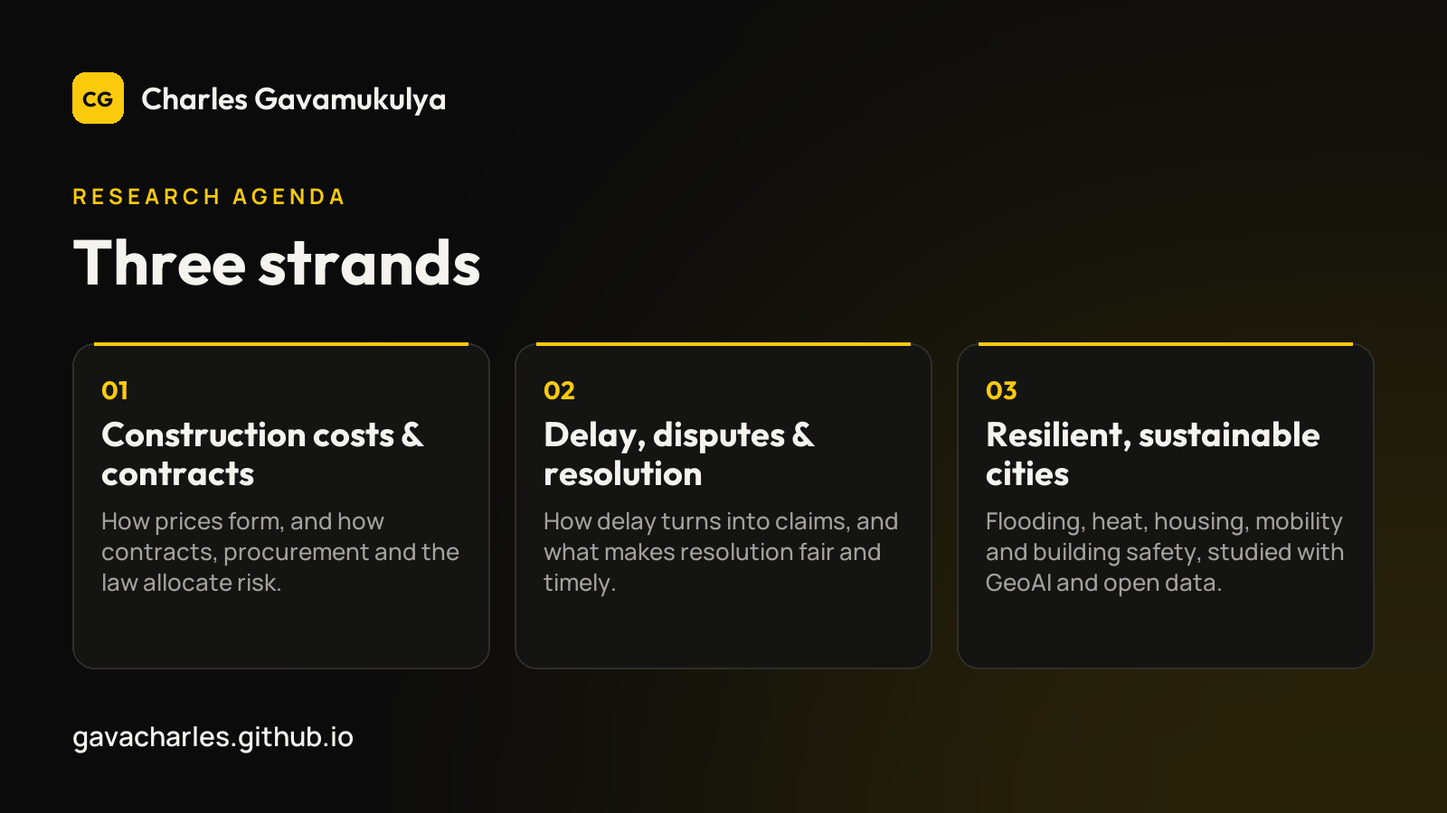
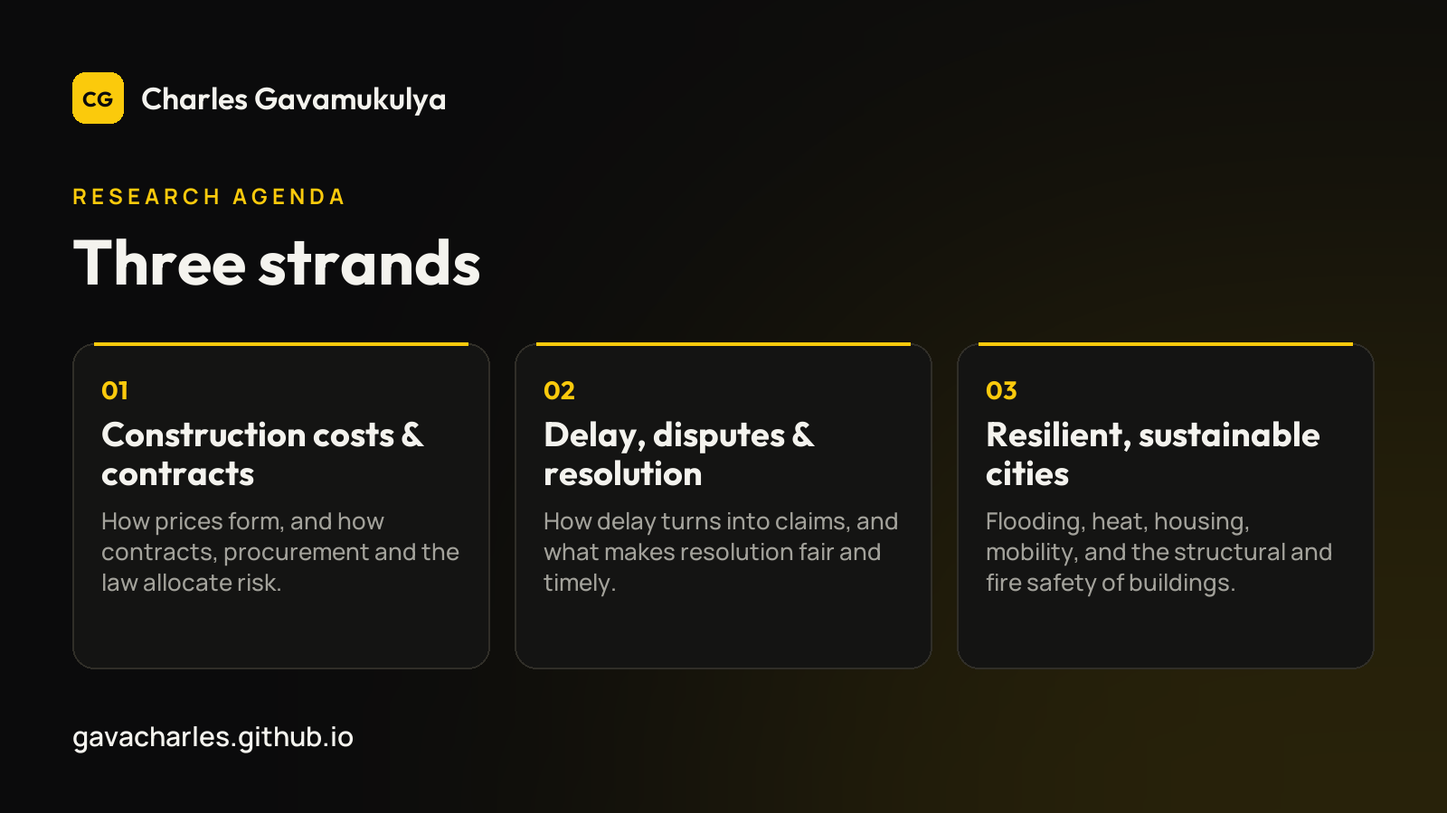
Update site 2026-11-19 22:58

Changed region(s): [[0.6875, 0.6222, 0.9375, 0.7467]]

diff --git a/research/index.html b/research/index.html
@@ -34,7 +34,7 @@
 <nav class="crumbs"><a href="/">Home</a> / Research</nav>
 <section class="page-head"><span class="eyebrow">Research</span><h1>Research <em>agenda</em></h1>
 <p class="lead">15 research interests in three strands, each linked to papers and open projects.</p></section>
-<section class="block" id="construction-costs-contracts"><span class="eyebrow">01</span><h2>Construction costs &amp; <em>contracts</em></h2><p class="lead">What drives construction prices, how contracts and procurement allocate that risk, and what the law asks of each party.</p><div class="grid interests"><div class="card interest" id="construction-prices-cost-forecasting"><h3>Construction prices &amp; cost forecasting</h3><p>Rebuilding Uganda&#x27;s construction price index, forecasting material costs and tracing how oil, exchange-rate and fiscal shocks reach contract prices.</p><div class="chips"><a class="chip" href="/projects/cio-construction-costs/">CIO Construction Costs</a><a class="chip" href="/projects/uganda-cipi-unsupervised-taxonomy/">Uganda CIPI Unsupervised Taxonomy</a><a class="chip" href="/projects/paper1-macro-fiscal-drivers-uganda/">Paper1 Macro Fiscal Drivers Uganda</a><a class="chip" href="/projects/brent-crude-uganda-escalation/">Brent Crude Uganda Escalation</a><a class="chip" href="/projects/simi-paper/">SIMI Paper</a></div></div><div class="card interest" id="contracts-price-adjustment-risk-allocation"><h3>Contracts, price adjustment &amp; risk allocation</h3><p>Testing FIDIC price-adjustment formulas, variations, and making contract risk allocation measurable at tender.</p><div class="chips"><a class="chip pub" href="/#pub-variations">Paper: Variations in construction contracts</a><a class="chip pub" href="/#pub-quality-sogssa">Paper: Quality management under the 2018 Act</a><a class="chip" href="/projects/fidic-determinable-at-tender/">FIDIC Determinable At Tender</a><a class="chip" href="/projects/dam-adaptive-governance-paper/">DAM Adaptive Governance Paper</a><a class="chip" href="/projects/fidic-clause-reform-phd/">FIDIC Clause Reform PhD</a></div></div><div class="card interest" id="construction-law-liability"><h3>Construction law &amp; liability</h3><p>Contractors&#x27; duties and liability in negligence across common-law and civil-law systems, and the effect of Uganda&#x27;s 2018 Sale of Goods and Supply of Services Act on quality obligations.</p><div class="chips"><a class="chip pub" href="/#pub-tortious-liability">Paper: Contractors&#x27; liability in negligence</a><a class="chip pub" href="/#pub-quality-sogssa">Paper: Quality management under the 2018 Act</a></div></div><div class="card interest" id="public-procurement-accountability"><h3>Public procurement &amp; accountability</h3><p>Explainable fraud-risk analytics for public works and text mining of Auditor General reports.</p><div class="chips"><a class="chip" href="/projects/procurement-risk-uganda/">Procurement Risk Uganda</a><a class="chip" href="/projects/oag-reports/">OAG Reports</a></div></div></div></section><section class="block" id="delay-disputes-resolution"><span class="eyebrow">02</span><h2>Delay, disputes &amp; <em>resolution</em></h2><p class="lead">Why projects slip, how delay turns into claims, and how adjudication and arbitration resolve them, including when the weather is to blame.</p><div class="grid interests"><div class="card interest" id="delay-claims-dispute-resolution"><h3>Delay, claims &amp; dispute resolution</h3><p>Concurrent delay, liability apportionment and the causes of construction disputes, from site to arbitration.</p><div class="chips"><a class="chip pub" href="/#pub-concurrent-delay-barnes">Paper: Concurrent delay: the Thomas Barnes approach</a><a class="chip" href="/projects/concurrent-delay-map/">Concurrent Delay Map</a><a class="chip" href="/projects/concurrent-delay-ml/">Concurrent Delay ML</a><a class="chip" href="/projects/text-mining-analysis-for-oag-reports-from-2017-to-2025/">Text Mining Analysis For OAG Reports From 2017 To 2025</a></div></div><div class="card interest" id="adjudication-arbitration-adr"><h3>Adjudication, arbitration &amp; ADR</h3><p>How construction adjudication works, how its decisions are enforced in Uganda, the UK and South Africa, and when courts can order parties into ADR.</p><div class="chips"><a class="chip pub" href="/#pub-adjudication-uganda-reform">Paper: Construction adjudication in Uganda</a><a class="chip pub" href="/#pub-fidic-1999-adjudication">Paper: Adjudication in the 1999 FIDIC forms</a><a class="chip pub" href="/#pub-adjudication-enforcement">Paper: Enforcing adjudication decisions: UK, SA, Uganda</a><a class="chip pub" href="/#pub-cader-rulings">Paper: CADER adjudication rulings</a><a class="chip pub" href="/#pub-churchill-adr">Paper: Churchill v Merthyr Tydfil and court-ordered ADR</a></div></div><div class="card interest" id="climate-risk-in-construction"><h3>Climate risk in construction</h3><p>When weather becomes &#x27;exceptional&#x27;: extension-of-time entitlement, seasonal delay and corrosion risk to concrete buildings.</p><div class="chips"><a class="chip" href="/projects/uganda-climate-disputes/">Uganda Climate Disputes</a><a class="chip" href="/projects/uganda-concrete-climate/">Uganda Concrete Climate</a></div></div></div></section><section class="block" id="resilient-sustainable-cities"><span class="eyebrow">03</span><h2>Resilient, sustainable <em>cities</em></h2><p class="lead">How flood, heat, housing, mobility and building safety shape African cities, mapped with GeoAI and open data.</p><div class="grid interests"><div class="card interest" id="urban-flooding-drainage"><h3>Urban flooding &amp; drainage</h3><p>Storm replays, drainage-channel priorities and flood monitoring for Kampala and Kigali.</p><div class="chips"><a class="chip" href="/projects/kampala-flood-replay/">Kampala Flood Replay</a><a class="chip" href="/projects/kampala-drain-watch/">Kampala Drain Watch</a><a class="chip" href="/projects/kigali-drain-watch/">Kigali Drain Watch</a><a class="chip" href="/projects/where-is-the-el-nino-rain/">Where Is The El Nino Rain</a></div></div><div class="card interest" id="urban-heat-green-infrastructure"><h3>Urban heat &amp; green infrastructure</h3><p>Surface heat, informal settlements, tree priorities, rooftop solar and a 3D sun, shade and breeze model.</p><div class="chips"><a class="chip" href="/projects/kampala-heat-atlas/">Kampala Heat Atlas</a></div></div><div class="card interest" id="housing-affordability"><h3>Housing affordability</h3><p>Who can afford the housing on offer in Greater Kampala, using spatial machine learning.</p><div class="chips"><a class="chip" href="/projects/gkma-housing-affordability/">GKMA Housing Affordability</a><a class="chip" href="/projects/kampala-affordability-explorer/">Kampala Affordability Explorer</a></div></div><div class="card interest" id="mobility-access-trade-corridors"><h3>Mobility, access &amp; trade corridors</h3><p>Last-mile connectivity, electric buses and bodas, and what slows Uganda&#x27;s trade corridors.</p><div class="chips"><a class="chip" href="/projects/kampala-last-mile-map/">Kampala Last Mile Map</a><a class="chip" href="/projects/kampala-emobility-atlas/">Kampala Emobility Atlas</a><a class="chip" href="/projects/kigali-last-mile-map/">Kigali Last Mile Map</a><a class="chip" href="/projects/johannesburg-last-mile-map/">Johannesburg Last Mile Map</a><a class="chip" href="/projects/uganda-trade-corridors/">Uganda Trade Corridors</a></div></div><div class="card interest" id="structural-seismic-fire-safety"><h3>Structural, seismic &amp; fire safety</h3><p>Seismic vulnerability of existing buildings, forensic analysis of building collapse, and fire-safety mapping of Kampala&#x27;s central business district.</p><div class="chips"><a class="chip pub" href="/#pub-seismic-senate">Paper: Seismic vulnerability, Makerere Senate Building</a><a class="chip" href="/projects/eastleigh-collapse-analysis/">Eastleigh Collapse Analysis</a><a class="chip" href="/projects/kampala-cbd-fire-map/">Kampala CBD Fire Map</a></div></div><div class="card interest" id="seasons-rainfall-access-to-services"><h3>Seasons, rainfall &amp; access to services</h3><p>Four decades of Uganda rainfall, growing-season reliability, and how the rains lengthen trips to clinics, schools and markets.</p><div class="chips"><a class="chip" href="/projects/uganda-rainfall-climate/">Uganda Rainfall Climate</a><a class="chip" href="/projects/uganda-rainy-season-access/">Uganda Rainy Season Access</a><a class="chip" href="/projects/uganda-rainy-season-access-study/">Uganda Rainy Season Access Study</a></div></div><div class="card interest" id="water-sustainability"><h3>Water &amp; sustainability</h3><p>Low-cost greywater treatment using activated carbon made from rice husks.</p><div class="chips"><a class="chip pub" href="/#pub-greywater-rice-husks">Paper: Rice-husk carbon for greywater treatment</a></div></div><div class="card interest" id="elections-political-geography"><h3>Elections &amp; political geography</h3><p>An independent ward-level forecast of South Africa&#x27;s 2026 local government elections, with an interactive map.</p><div class="chips"><a class="chip" href="/projects/lge2026-ward-forecast/">LGE2026 Ward Forecast</a></div></div></div></section>
+<section class="block" id="construction-costs-contracts"><span class="eyebrow">01</span><h2>Construction costs &amp; <em>contracts</em></h2><p class="lead">What drives construction prices, how contracts and procurement allocate that risk, and what the law asks of each party.</p><div class="grid interests"><div class="card interest" id="construction-prices-cost-forecasting"><h3>Construction prices &amp; cost forecasting</h3><p>Rebuilding Uganda&#x27;s construction price index, forecasting material costs and tracing how oil, exchange-rate and fiscal shocks reach contract prices.</p><div class="chips"><a class="chip" href="/projects/cio-construction-costs/">CIO Construction Costs</a><a class="chip" href="/projects/uganda-cipi-unsupervised-taxonomy/">Uganda CIPI Unsupervised Taxonomy</a><a class="chip" href="/projects/paper1-macro-fiscal-drivers-uganda/">Paper1 Macro Fiscal Drivers Uganda</a><a class="chip" href="/projects/brent-crude-uganda-escalation/">Brent Crude Uganda Escalation</a><a class="chip" href="/projects/simi-paper/">SIMI Paper</a></div></div><div class="card interest" id="contracts-price-adjustment-risk-allocation"><h3>Contracts, price adjustment &amp; risk allocation</h3><p>Testing FIDIC price-adjustment formulas, variations, and making contract risk allocation measurable at tender.</p><div class="chips"><a class="chip pub" href="/#pub-variations">Paper: Variations in construction contracts</a><a class="chip pub" href="/#pub-quality-sogssa">Paper: Quality management under the 2018 Act</a><a class="chip" href="/projects/fidic-determinable-at-tender/">FIDIC Determinable At Tender</a><a class="chip" href="/projects/dam-adaptive-governance-paper/">DAM Adaptive Governance Paper</a><a class="chip" href="/projects/fidic-clause-reform-phd/">FIDIC Clause Reform PhD</a></div></div><div class="card interest" id="construction-law-liability"><h3>Construction law &amp; liability</h3><p>Contractors&#x27; duties and liability in negligence across common-law and civil-law systems, and the effect of Uganda&#x27;s 2018 Sale of Goods and Supply of Services Act on quality obligations.</p><div class="chips"><a class="chip pub" href="/#pub-tortious-liability">Paper: Contractors&#x27; liability in negligence</a><a class="chip pub" href="/#pub-quality-sogssa">Paper: Quality management under the 2018 Act</a></div></div><div class="card interest" id="public-procurement-accountability"><h3>Public procurement &amp; accountability</h3><p>Explainable fraud-risk analytics for public works and text mining of Auditor General reports.</p><div class="chips"><a class="chip" href="/projects/procurement-risk-uganda/">Procurement Risk Uganda</a><a class="chip" href="/projects/oag-reports/">OAG Reports</a></div></div></div></section><section class="block" id="delay-disputes-resolution"><span class="eyebrow">02</span><h2>Delay, disputes &amp; <em>resolution</em></h2><p class="lead">Why projects slip, how delay turns into claims, and how adjudication and arbitration resolve them, including when the weather is to blame.</p><div class="grid interests"><div class="card interest" id="delay-claims-dispute-resolution"><h3>Delay, claims &amp; dispute resolution</h3><p>Concurrent delay, liability apportionment and the causes of construction disputes, from site to arbitration.</p><div class="chips"><a class="chip pub" href="/#pub-concurrent-delay-barnes">Paper: Concurrent delay: the Thomas Barnes approach</a><a class="chip" href="/projects/concurrent-delay-map/">Concurrent Delay Map</a><a class="chip" href="/projects/concurrent-delay-ml/">Concurrent Delay ML</a><a class="chip" href="/projects/text-mining-analysis-for-oag-reports-from-2017-to-2025/">Text Mining Analysis For OAG Reports From 2017 To 2025</a></div></div><div class="card interest" id="adjudication-arbitration-adr"><h3>Adjudication, arbitration &amp; ADR</h3><p>How construction adjudication works, how its decisions are enforced in Uganda, the UK and South Africa, and when courts can order parties into ADR.</p><div class="chips"><a class="chip pub" href="/#pub-adjudication-uganda-reform">Paper: Construction adjudication in Uganda</a><a class="chip pub" href="/#pub-fidic-1999-adjudication">Paper: Adjudication in the 1999 FIDIC forms</a><a class="chip pub" href="/#pub-adjudication-enforcement">Paper: Enforcing adjudication decisions: UK, SA, Uganda</a><a class="chip pub" href="/#pub-cader-rulings">Paper: CADER adjudication rulings</a><a class="chip pub" href="/#pub-churchill-adr">Paper: Churchill v Merthyr Tydfil and court-ordered ADR</a></div></div><div class="card interest" id="climate-risk-in-construction"><h3>Climate risk in construction</h3><p>When weather becomes &#x27;exceptional&#x27;: extension-of-time entitlement, seasonal delay and corrosion risk to concrete buildings.</p><div class="chips"><a class="chip" href="/projects/uganda-climate-disputes/">Uganda Climate Disputes</a><a class="chip" href="/projects/uganda-concrete-climate/">Uganda Concrete Climate</a></div></div></div></section><section class="block" id="resilient-sustainable-cities"><span class="eyebrow">03</span><h2>Resilient, sustainable <em>cities</em></h2><p class="lead">How flooding, heat, housing, mobility and the structural and fire safety of buildings shape African cities, studied with GeoAI, open data and structural engineering.</p><div class="grid interests"><div class="card interest" id="urban-flooding-drainage"><h3>Urban flooding &amp; drainage</h3><p>Storm replays, drainage-channel priorities and flood monitoring for Kampala and Kigali.</p><div class="chips"><a class="chip" href="/projects/kampala-flood-replay/">Kampala Flood Replay</a><a class="chip" href="/projects/kampala-drain-watch/">Kampala Drain Watch</a><a class="chip" href="/projects/kigali-drain-watch/">Kigali Drain Watch</a><a class="chip" href="/projects/where-is-the-el-nino-rain/">Where Is The El Nino Rain</a></div></div><div class="card interest" id="urban-heat-green-infrastructure"><h3>Urban heat &amp; green infrastructure</h3><p>Surface heat, informal settlements, tree priorities, rooftop solar and a 3D sun, shade and breeze model.</p><div class="chips"><a class="chip" href="/projects/kampala-heat-atlas/">Kampala Heat Atlas</a></div></div><div class="card interest" id="housing-affordability"><h3>Housing affordability</h3><p>Who can afford the housing on offer in Greater Kampala, using spatial machine learning.</p><div class="chips"><a class="chip" href="/projects/gkma-housing-affordability/">GKMA Housing Affordability</a><a class="chip" href="/projects/kampala-affordability-explorer/">Kampala Affordability Explorer</a></div></div><div class="card interest" id="mobility-access-trade-corridors"><h3>Mobility, access &amp; trade corridors</h3><p>Last-mile connectivity, electric buses and bodas, and what slows Uganda&#x27;s trade corridors.</p><div class="chips"><a class="chip" href="/projects/kampala-last-mile-map/">Kampala Last Mile Map</a><a class="chip" href="/projects/kampala-emobility-atlas/">Kampala Emobility Atlas</a><a class="chip" href="/projects/kigali-last-mile-map/">Kigali Last Mile Map</a><a class="chip" href="/projects/johannesburg-last-mile-map/">Johannesburg Last Mile Map</a><a class="chip" href="/projects/uganda-trade-corridors/">Uganda Trade Corridors</a></div></div><div class="card interest" id="structural-seismic-fire-safety"><h3>Structural, seismic &amp; fire safety</h3><p>Structural engineering applied to the buildings cities already have: the seismic vulnerability of existing structures, fire safety in dense city centres such as Kampala&#x27;s, and forensic analysis of building collapse.</p><div class="chips"><a class="chip pub" href="/#pub-seismic-senate">Paper: Seismic vulnerability, Makerere Senate Building</a><a class="chip" href="/projects/eastleigh-collapse-analysis/">Eastleigh Collapse Analysis</a><a class="chip" href="/projects/kampala-cbd-fire-map/">Kampala CBD Fire Map</a></div></div><div class="card interest" id="seasons-rainfall-access-to-services"><h3>Seasons, rainfall &amp; access to services</h3><p>Four decades of Uganda rainfall, growing-season reliability, and how the rains lengthen trips to clinics, schools and markets.</p><div class="chips"><a class="chip" href="/projects/uganda-rainfall-climate/">Uganda Rainfall Climate</a><a class="chip" href="/projects/uganda-rainy-season-access/">Uganda Rainy Season Access</a><a class="chip" href="/projects/uganda-rainy-season-access-study/">Uganda Rainy Season Access Study</a></div></div><div class="card interest" id="water-sustainability"><h3>Water &amp; sustainability</h3><p>Low-cost greywater treatment using activated carbon made from rice husks.</p><div class="chips"><a class="chip pub" href="/#pub-greywater-rice-husks">Paper: Rice-husk carbon for greywater treatment</a></div></div><div class="card interest" id="elections-political-geography"><h3>Elections &amp; political geography</h3><p>An independent ward-level forecast of South Africa&#x27;s 2026 local government elections, with an interactive map.</p><div class="chips"><a class="chip" href="/projects/lge2026-ward-forecast/">LGE2026 Ward Forecast</a></div></div></div></section>
 <p class="methods"><span class="eyebrow">Methods</span> Econometrics (VAR, ARDL, local projections) · machine learning and explainable AI · physics-informed neural networks · GIS and remote sensing · text mining · interactive web maps</p>
 </main>
 <footer id="contact" class="foot"><div class="wrap foot-in">

diff --git a/index.html b/index.html
@@ -34,16 +34,16 @@
 
 <section class="hero has-photo" id="about"><div class="hero-text">
   <h1 class="rot-h1" aria-label="Turning construction and city risk into evidence you can act on."><span aria-hidden="true">Turning<br><span class="rotator" data-words="price shocks|delay claims|contract clauses|flood risk|dispute records|procurement red flags"><span class="rot-word">price shocks</span></span><br>into evidence you can act on.</span></h1>
-  <p class="lead">I&#x27;m Charles Gavamukulya, a PhD candidate in Construction Management at the University of Johannesburg, working where construction, law and the city meet. Years of contract administration and claims work on Ugandan roads, railways and drainage schemes left me with two questions: why do infrastructure projects run over budget, fall behind schedule and end in dispute? And how can African cities be built to stay resilient, sustainable and affordable as the climate changes?</p><p class="lead">My aim is to explain how the industry really behaves, not merely describe it, and to turn that understanding into tools that engineers, lawyers, financiers and city leaders can use. Drawing on mathematics, machine learning and GeoAI, I study how construction costs and risk are shared, how delay becomes dispute, how safe our buildings are, and how flooding, heat, housing and mobility are reshaping African cities.</p>
+  <p class="lead">I&#x27;m Charles Gavamukulya, a PhD candidate in Construction Management at the University of Johannesburg. Trained in both structural engineering and construction law, I work where construction, law and the city meet. Years of contract administration and claims work on Ugandan roads, railways and drainage schemes left me with two questions: why do infrastructure projects run over budget, fall behind schedule and end in dispute? And how can African cities be built to stay resilient, sustainable and affordable as the climate changes?</p><p class="lead">My aim is to explain how the industry really behaves, not merely describe it, and to turn that understanding into tools that engineers, lawyers, financiers and city leaders can use. Drawing on mathematics, machine learning and GeoAI, I study how construction costs and risk are shared, how delay becomes dispute, how buildings stand up to earthquakes, fire and structural failure, and how flooding, heat, housing and mobility are reshaping African cities.</p>
   <div class="cta"><a class="btn gold" href="/cv/">View CV</a><a class="btn ghost" href="mailto:charles.gavamukulya@hovequill.com">Email</a><a class="btn ghost" href="https://scholar.google.com/citations?user=7_nGb4QAAAAJ&hl=en" target="_blank" rel="noopener">Google Scholar</a></div>
   <p class="minor-links"><a href="https://github.com/gavacharles" target="_blank" rel="me noopener">GitHub ↗</a> · <a href="https://www.linkedin.com/in/charles-gavamukulya-fciarb-203465132" target="_blank" rel="me noopener">LinkedIn ↗</a> · <a href="https://orcid.org/0009-0003-6337-6646" target="_blank" rel="me noopener">ORCID ↗</a> · <a href="#collaborate">Work with me →</a></p>
   
   <dl class="stats"><div><dt>Publications</dt><dd>11</dd></div><div><dt>Open projects</dt><dd>36</dd></div><div><dt>Research interests</dt><dd>15</dd></div></dl>
 </div><figure class="portrait-wrap"><div class="portrait"><img src="/assets/photo.jpg" alt="Portrait of Charles Gavamukulya" width="520" height="780"></div><figcaption>Charles Gavamukulya<span>PhD candidate in Construction Management · University of Johannesburg</span></figcaption></figure>
 </section>
-<div class="ticker" aria-hidden="true"><div class="ticker-track"><span>FIDIC &amp; contract risk</span><span>Construction price indices</span><span>Adjudication &amp; arbitration</span><span>Concurrent delay</span><span>Claims &amp; quantum</span><span>Flood &amp; drainage</span><span>Urban heat</span><span>Housing affordability</span><span>Mobility &amp; access</span><span>Procurement integrity</span><span>Seismic &amp; fire safety</span><span>Machine learning</span><span>GIS &amp; remote sensing</span><span>FIDIC &amp; contract risk</span><span>Construction price indices</span><span>Adjudication &amp; arbitration</span><span>Concurrent delay</span><span>Claims &amp; quantum</span><span>Flood &amp; drainage</span><span>Urban heat</span><span>Housing affordability</span><span>Mobility &amp; access</span><span>Procurement integrity</span><span>Seismic &amp; fire safety</span><span>Machine learning</span><span>GIS &amp; remote sensing</span></div></div>
+<div class="ticker" aria-hidden="true"><div class="ticker-track"><span>FIDIC &amp; contract risk</span><span>Construction price indices</span><span>Adjudication &amp; arbitration</span><span>Concurrent delay</span><span>Claims &amp; quantum</span><span>Flood &amp; drainage</span><span>Urban heat</span><span>Housing affordability</span><span>Mobility &amp; access</span><span>Procurement integrity</span><span>Structural &amp; fire safety</span><span>Machine learning</span><span>GIS &amp; remote sensing</span><span>FIDIC &amp; contract risk</span><span>Construction price indices</span><span>Adjudication &amp; arbitration</span><span>Concurrent delay</span><span>Claims &amp; quantum</span><span>Flood &amp; drainage</span><span>Urban heat</span><span>Housing affordability</span><span>Mobility &amp; access</span><span>Procurement integrity</span><span>Structural &amp; fire safety</span><span>Machine learning</span><span>GIS &amp; remote sensing</span></div></div>
 <section class="block" id="research"><div class="head"><h2>Research <em>agenda</em></h2><a href="/research/">All 15 interests →</a></div>
-  <div class="grid agenda-grid"><div class="card agenda"><span class="num">01</span><h3>Construction costs &amp; contracts</h3><p>What drives construction prices, how contracts and procurement allocate that risk, and what the law asks of each party.</p><ul><li><a href="/research/#construction-prices-cost-forecasting">Construction prices &amp; cost forecasting</a></li><li><a href="/research/#contracts-price-adjustment-risk-allocation">Contracts, price adjustment &amp; risk allocation</a></li><li><a href="/research/#construction-law-liability">Construction law &amp; liability</a></li><li><a href="/research/#public-procurement-accountability">Public procurement &amp; accountability</a></li></ul><a class="more" href="/research/#construction-costs-contracts">Explore →</a></div><div class="card agenda"><span class="num">02</span><h3>Delay, disputes &amp; resolution</h3><p>Why projects slip, how delay turns into claims, and how adjudication and arbitration resolve them, including when the weather is to blame.</p><ul><li><a href="/research/#delay-claims-dispute-resolution">Delay, claims &amp; dispute resolution</a></li><li><a href="/research/#adjudication-arbitration-adr">Adjudication, arbitration &amp; ADR</a></li><li><a href="/research/#climate-risk-in-construction">Climate risk in construction</a></li></ul><a class="more" href="/research/#delay-disputes-resolution">Explore →</a></div><div class="card agenda"><span class="num">03</span><h3>Resilient, sustainable cities</h3><p>How flood, heat, housing, mobility and building safety shape African cities, mapped with GeoAI and open data.</p><ul><li><a href="/research/#urban-flooding-drainage">Urban flooding &amp; drainage</a></li><li><a href="/research/#urban-heat-green-infrastructure">Urban heat &amp; green infrastructure</a></li><li><a href="/research/#housing-affordability">Housing affordability</a></li><li><a href="/research/#mobility-access-trade-corridors">Mobility, access &amp; trade corridors</a></li><li><a href="/research/#structural-seismic-fire-safety">Structural, seismic &amp; fire safety</a></li><li><a href="/research/#seasons-rainfall-access-to-services">Seasons, rainfall &amp; access to services</a></li><li><a href="/research/#water-sustainability">Water &amp; sustainability</a></li><li><a href="/research/#elections-political-geography">Elections &amp; political geography</a></li></ul><a class="more" href="/research/#resilient-sustainable-cities">Explore →</a></div></div></section>
+  <div class="grid agenda-grid"><div class="card agenda"><span class="num">01</span><h3>Construction costs &amp; contracts</h3><p>What drives construction prices, how contracts and procurement allocate that risk, and what the law asks of each party.</p><ul><li><a href="/research/#construction-prices-cost-forecasting">Construction prices &amp; cost forecasting</a></li><li><a href="/research/#contracts-price-adjustment-risk-allocation">Contracts, price adjustment &amp; risk allocation</a></li><li><a href="/research/#construction-law-liability">Construction law &amp; liability</a></li><li><a href="/research/#public-procurement-accountability">Public procurement &amp; accountability</a></li></ul><a class="more" href="/research/#construction-costs-contracts">Explore →</a></div><div class="card agenda"><span class="num">02</span><h3>Delay, disputes &amp; resolution</h3><p>Why projects slip, how delay turns into claims, and how adjudication and arbitration resolve them, including when the weather is to blame.</p><ul><li><a href="/research/#delay-claims-dispute-resolution">Delay, claims &amp; dispute resolution</a></li><li><a href="/research/#adjudication-arbitration-adr">Adjudication, arbitration &amp; ADR</a></li><li><a href="/research/#climate-risk-in-construction">Climate risk in construction</a></li></ul><a class="more" href="/research/#delay-disputes-resolution">Explore →</a></div><div class="card agenda"><span class="num">03</span><h3>Resilient, sustainable cities</h3><p>How flooding, heat, housing, mobility and the structural and fire safety of buildings shape African cities, studied with GeoAI, open data and structural engineering.</p><ul><li><a href="/research/#urban-flooding-drainage">Urban flooding &amp; drainage</a></li><li><a href="/research/#urban-heat-green-infrastructure">Urban heat &amp; green infrastructure</a></li><li><a href="/research/#housing-affordability">Housing affordability</a></li><li><a href="/research/#mobility-access-trade-corridors">Mobility, access &amp; trade corridors</a></li><li><a href="/research/#structural-seismic-fire-safety">Structural, seismic &amp; fire safety</a></li><li><a href="/research/#seasons-rainfall-access-to-services">Seasons, rainfall &amp; access to services</a></li><li><a href="/research/#water-sustainability">Water &amp; sustainability</a></li><li><a href="/research/#elections-political-geography">Elections &amp; political geography</a></li></ul><a class="more" href="/research/#resilient-sustainable-cities">Explore →</a></div></div></section>
 <section class="block" id="approach"><div class="head"><h2>How I tackle <em>it</em></h2></div>
   <div class="steps"><div class="step"><span class="num">01</span><h3>Explain the phenomena</h3><p>Why do price shocks ripple through material costs? Why do some contract clauses breed disputes, and why do some delays become claims? I use econometrics (vector autoregressions, local projections and regime-switching models) and text mining of audit reports and case law to find the mechanisms behind what practitioners see on site.</p></div><div class="step"><span class="num">02</span><h3>Measure what matters</h3><p>Much of the industry&#x27;s evidence is locked in PDFs and spreadsheets. Rebuilding Uganda&#x27;s construction price index, publishing weekly cost signals for 18 African countries and creating open datasets on contract risk make those numbers visible, comparable and testable.</p></div><div class="step"><span class="num">03</span><h3>Predict and optimise</h3><p>Probabilistic forecasts, explainable machine learning and physics-informed neural networks help anticipate cost escalation, delay and structural failure, and support better decisions on pricing, scheduling and contract design.</p></div><div class="step"><span class="num">04</span><h3>Plan for sustainable, resilient cities</h3><p>GeoAI, satellite imagery and open data map flood and drainage risk, urban heat, housing affordability and the climate exposure of building stock, and show where electric bodas, buses and charging fit into Kampala, Kigali and Johannesburg, so planning puts resilience and low-carbon mobility first.</p></div><div class="step"><span class="num">05</span><h3>Share it openly</h3><p>Every public project is on GitHub with interactive maps and dashboards, so other researchers can test, challenge and extend the work, and practitioners can use it straight away.</p></div></div></section>
 <section class="block" id="background"><div class="head"><h2>Practice and <em>training</em></h2><a href="/cv/">Full CV →</a></div>
